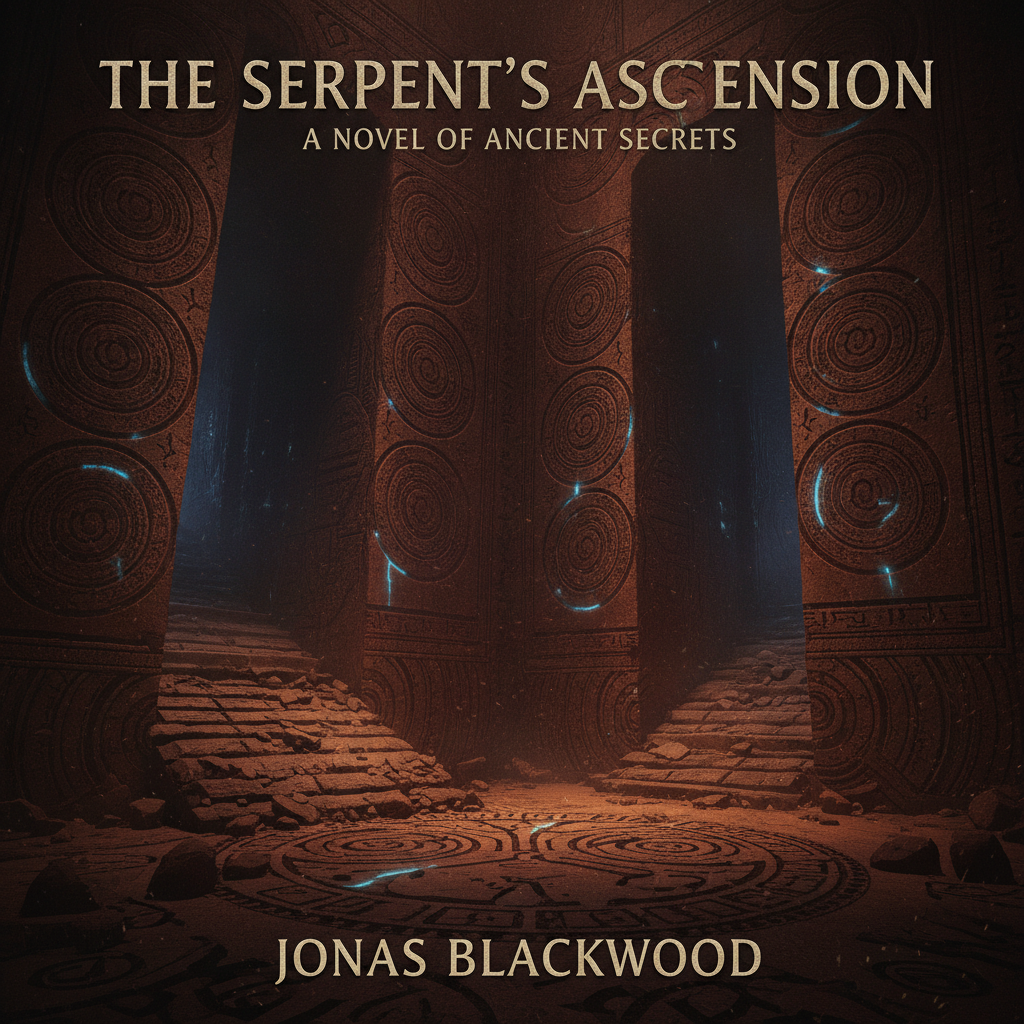
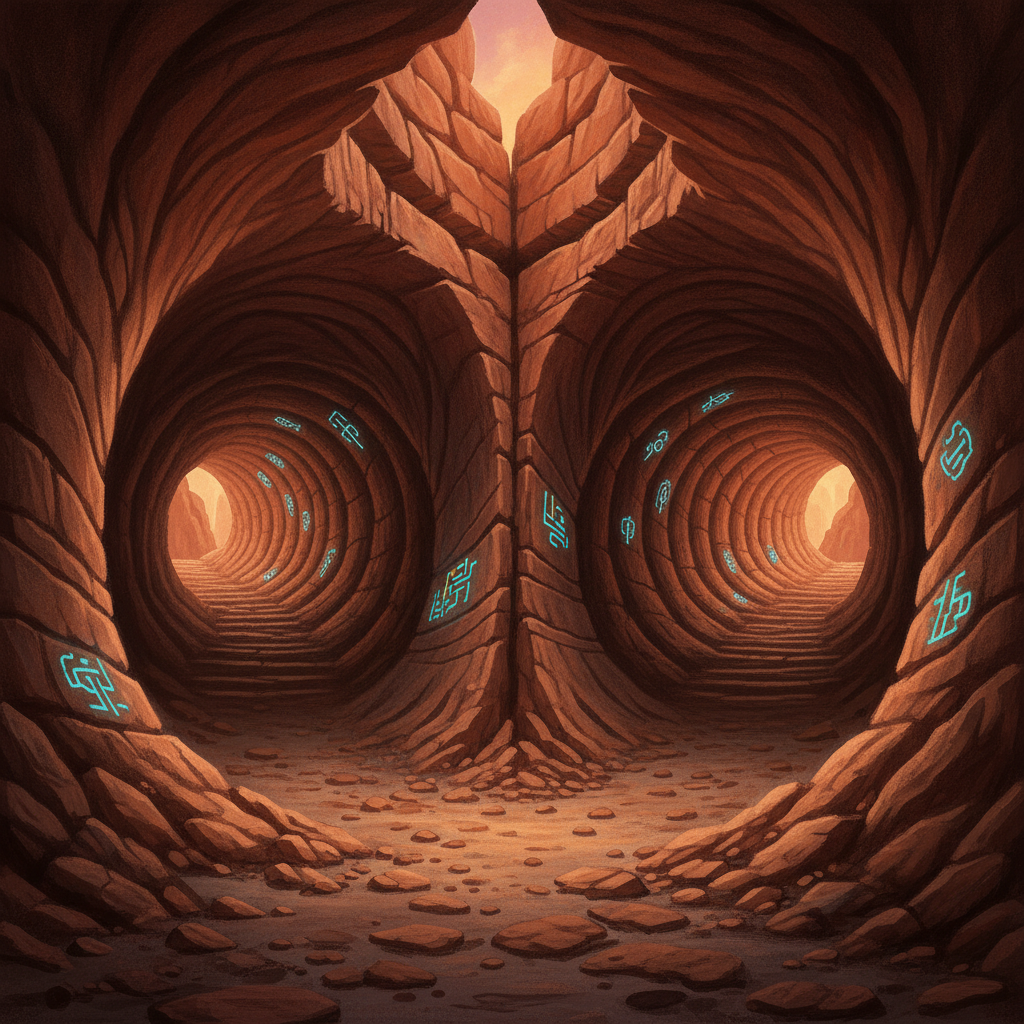
Fix real bug: Gemini fabricated a fake book-cover mockup for a scene image
Mayor caught it reading the live site: scene 2 of Chapter 1 (a plain
"forking tunnel" description, no character) came back as an entire fake
book cover - invented title ("The Serpent's Ascension"), invented author
byline ("Jonas Blackwood"), sitting live in a published chapter. The
existing SINGLE_IMAGE_SUFFIX guard blocked canvas prints, wall art, and
grid/collage artifacts, but never covered "book cover with typography" as
its own failure mode. Strengthened the guard to explicitly forbid overlaid
title/author/caption text while still allowing legitimate in-world
inscriptions physically carved into scene objects (tablets, walls) - the
distinction is typography layered ON the image like a cover design vs.
glyphs that are part of the scene itself. Regenerated scene 2, confirmed
clean - a real tunnel with in-world glyphs on the walls, no fake text.

diff --git a/lib/models/gemini-image.js b/lib/models/gemini-image.js
@@ -1,8 +1,16 @@
 // Ported verbatim from genstock-web's lib/engines/gemini.js - the
 // SINGLE_IMAGE_SUFFIX guard against multi-panel/collage and canvas-print-
-// mockup artifacts is real, live-found there and applies here too.
+// mockup artifacts is real, live-found there and applies here too. Real
+// bug found live in unread-ink, a DIFFERENT failure mode this guard never
+// covered: given a plain scene description ("a forking tunnel..."),
+// Gemini fabricated an entire fake book-cover mockup instead - invented
+// title text ("The Serpent's Ascension"), a fake author byline ("Jonas
+// Blackwood"), the works - sitting live in a published chapter until the
+// Mayor caught it reading the site. The mockup guard covered canvas
+// prints and wall art, never book covers or invented typography
+// specifically.
 const MODEL = 'gemini-2.5-flash-image'
-const SINGLE_IMAGE_SUFFIX = ' — a single image, one continuous scene, no border, no frame, edge-to-edge, not a grid, not a collage, not a diptych, not a contact sheet, not multiple panels, not a canvas print, not a framed print, not wall art, not a product mockup, no drop shadow, no visible canvas or paper edge — the raw scene itself, flat, filling the entire frame'
+const SINGLE_IMAGE_SUFFIX = ' — a single image, one continuous scene, no border, no frame, edge-to-edge, not a grid, not a collage, not a diptych, not a contact sheet, not multiple panels, not a canvas print, not a framed print, not wall art, not a product mockup, no drop shadow, no visible canvas or paper edge — the raw scene itself, flat, filling the entire frame. This is a pure illustration of a scene, never a book cover, movie poster, or product design - absolutely no overlaid title text, no subtitle, no author byline, no English-language captions or labels anywhere in the image. In-world inscriptions, glyphs, or symbols carved into objects that are physically part of the scene itself (a tablet, a wall, a carving) are fine if the scene calls for them - what is forbidden is typography layered ON TOP of the image like a cover design.'
 
 async function fetchTimeout(url, opts, timeoutMs) {
   const controller = new AbortController()

diff --git a/public/index.html b/public/index.html
@@ -27,14 +27,14 @@
     <div class="book-card-title">The White Sound</div>
   </a>
 
-  <a class="book-card" href="books/the-breath-of-the-serpent/index.html">
-    <img src="books/the-breath-of-the-serpent/images/cover.jpg" alt="The Breath of the Serpent">
-    <div class="book-card-title">The Breath of the Serpent</div>
-  </a>
-
   <a class="book-card" href="books/the-boundary-shift/index.html">
     <img src="books/the-boundary-shift/images/cover.jpg" alt="The Boundary Shift">
     <div class="book-card-title">The Boundary Shift</div>
+  </a>
+
+  <a class="book-card" href="books/the-breath-of-the-serpent/index.html">
+    <img src="books/the-breath-of-the-serpent/images/cover.jpg" alt="The Breath of the Serpent">
+    <div class="book-card-title">The Breath of the Serpent</div>
   </a>
   </div>
   <footer>unread.ink</footer>